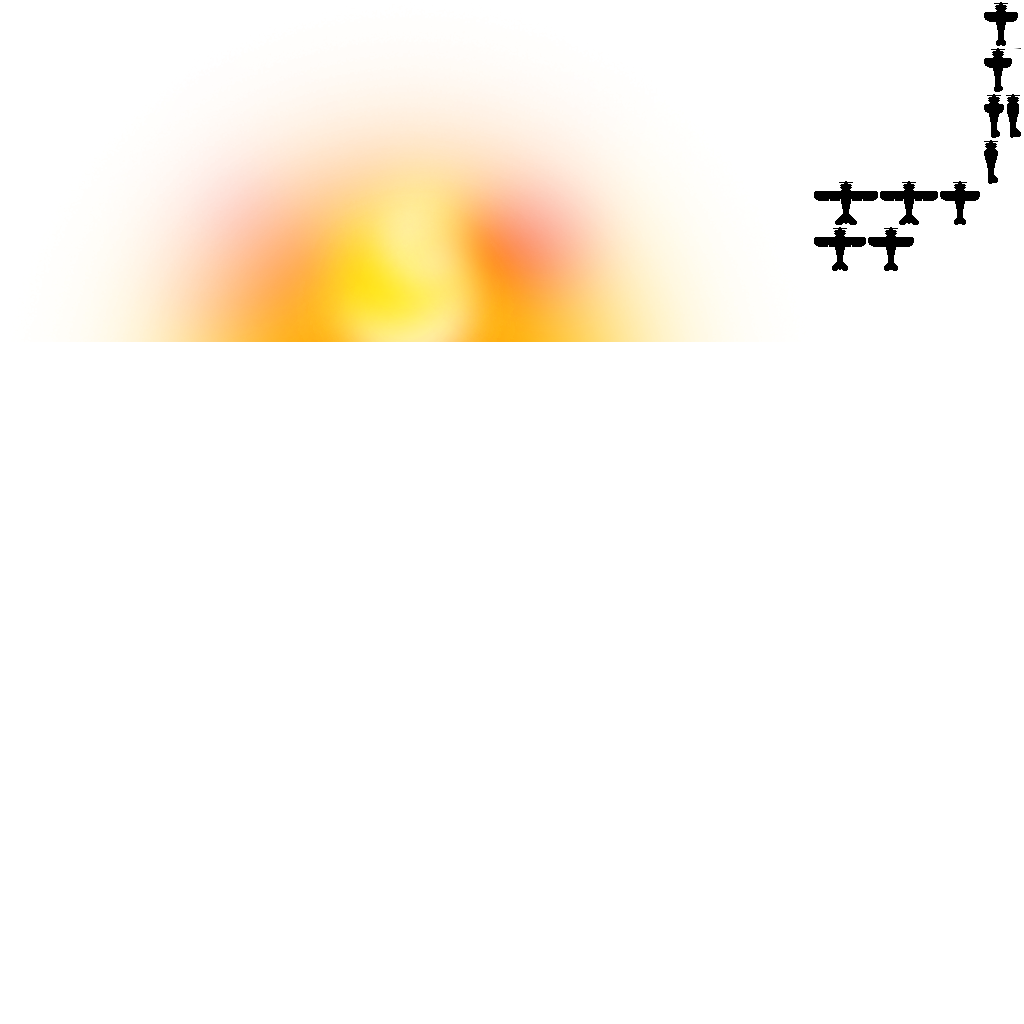
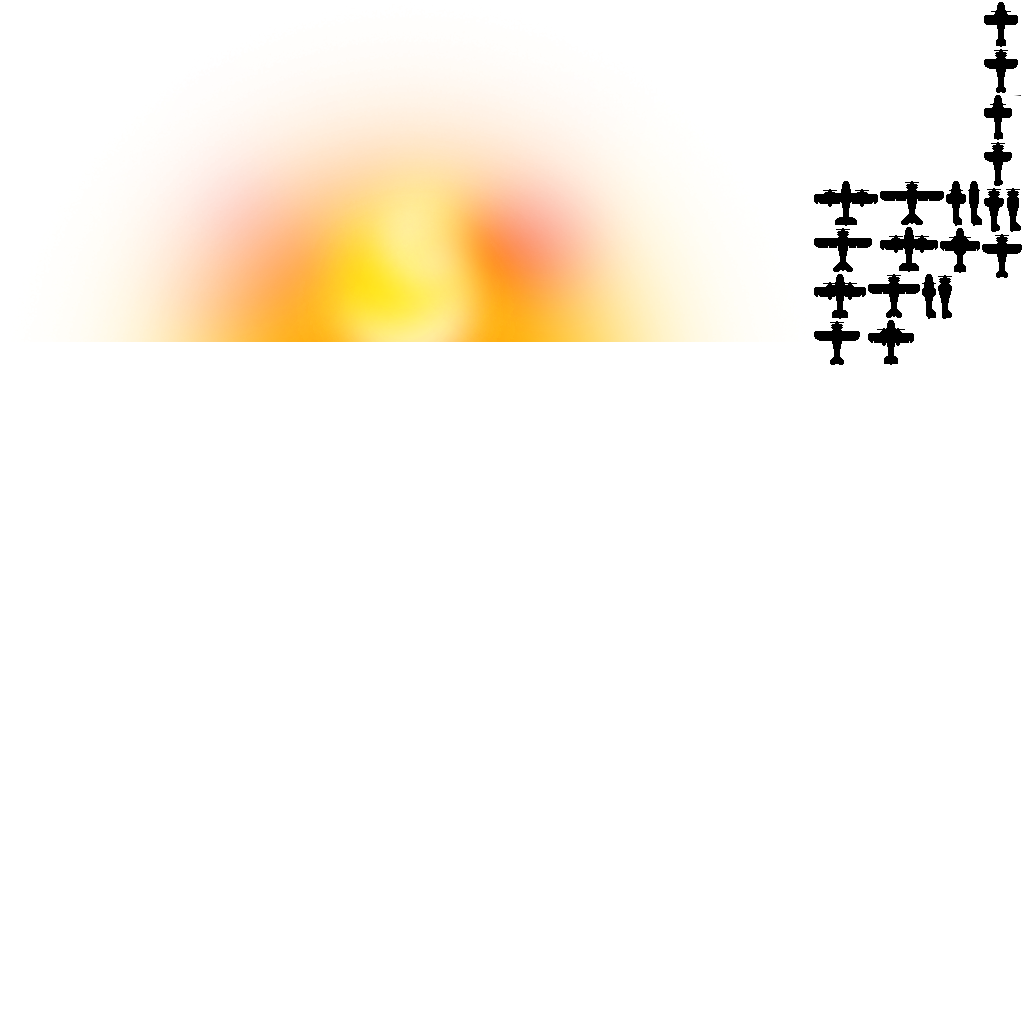
More plane sprites

Changed region(s): [[0.7812, 0.0, 1.0, 0.375]]

diff --git a/src/js/states/game.js b/src/js/states/game.js
@@ -152,7 +152,8 @@
          */
         createPlanes: function () {
             for (var a = 0; a < Settings.PLANE_COUNT; a++) {
-                var plane = new Plane(this.game, this.world.centerX + (a - 1) * 200, Settings.WORLD_OVERFLOW);
+                var framePrefix = (a === 0) ? "plane1" : "plane2"; // TODO: More planes
+                var plane = new Plane(this.game, this.world.centerX + (a - 1) * 200, Settings.WORLD_OVERFLOW, framePrefix);
 
                 this.add.existing(plane);
 
@@ -340,17 +341,20 @@
 
         /**
          * Plane crash event handler.
+         * @param e Plane reference
          */
-        onPlaneCrashed: function () {
-            if (this.masterPlane) {
-                this.fire.x = this.masterPlane.body.x;
-                this.fire.alpha = 1;
+        onPlaneCrashed: function (e) {
+            // TODO: Multiple fires
 
-                var tween = this.add.tween(this.fire);
+            this.fire.x = e.body.x;
+            this.fire.alpha = 1;
 
-                tween.to({alpha: 0}, 1000);
-                tween.start();
+            var tween = this.add.tween(this.fire);
 
+            tween.to({alpha: 0}, 1000);
+            tween.start();
+
+            if (e === this.masterPlane) {
                 this.isRestartRequested = true;
             }
         }

diff --git a/src/js/objects/plane.js b/src/js/objects/plane.js
@@ -10,12 +10,14 @@
      * @param game Game reference
      * @param x Start X position
      * @param y Start Y position
+     * @param framePrefix Sprite prefix
      * @constructor
      */
-    Plane = function (game, x, y) {
-        Phaser.Sprite.call(this, game, x, y, "game", "plane1/p1.png");
+    Plane = function (game, x, y, framePrefix) {
+        Phaser.Sprite.call(this, game, x, y, "game", framePrefix + "/p1.png");
 
         this.isInited = false;
+        this.framePrefix = framePrefix;
 
         // enable physics for this sprite
         game.physics.box2d.enable(this);
@@ -118,7 +120,7 @@
 
             // switch the plane frame based on the rotation
             if (Math.abs(rot) > 0) {
-                this.frameName = "plane1/p" + (Math.round(Math.abs(rot) / 8) + 1) + ".png";
+                this.frameName = this.framePrefix + "/p" + (Math.round(Math.abs(rot) / 8) + 1) + ".png";
             }
 
             // store the degree
@@ -209,7 +211,7 @@
         if (!this.isCrashed && this.body.y > this.game.world.height - 100) {
             this.isCrashed = true;
 
-            signals.onCrashBottom.dispatch();
+            signals.onCrashBottom.dispatch(this);
         }
     };
 

diff --git a/src/js/globals.js b/src/js/globals.js
@@ -14,7 +14,7 @@ var Settings = {
     WORLD_OVERFLOW: -30,
     MAX_TRAIL_DISTANCE: 15,
 
-    PLANE_COUNT: 1,
+    PLANE_COUNT: 3,
     MAX_PLANE_THRUST: 110,
     PLANE_THRUST_MULTIPLIER_UP: 1.9, // thrust multiplier when thrust button down
     PLANE_THRUST_MULTIPLIER_DOWN: 0.5, // thrust multiplier when backpedal button down
